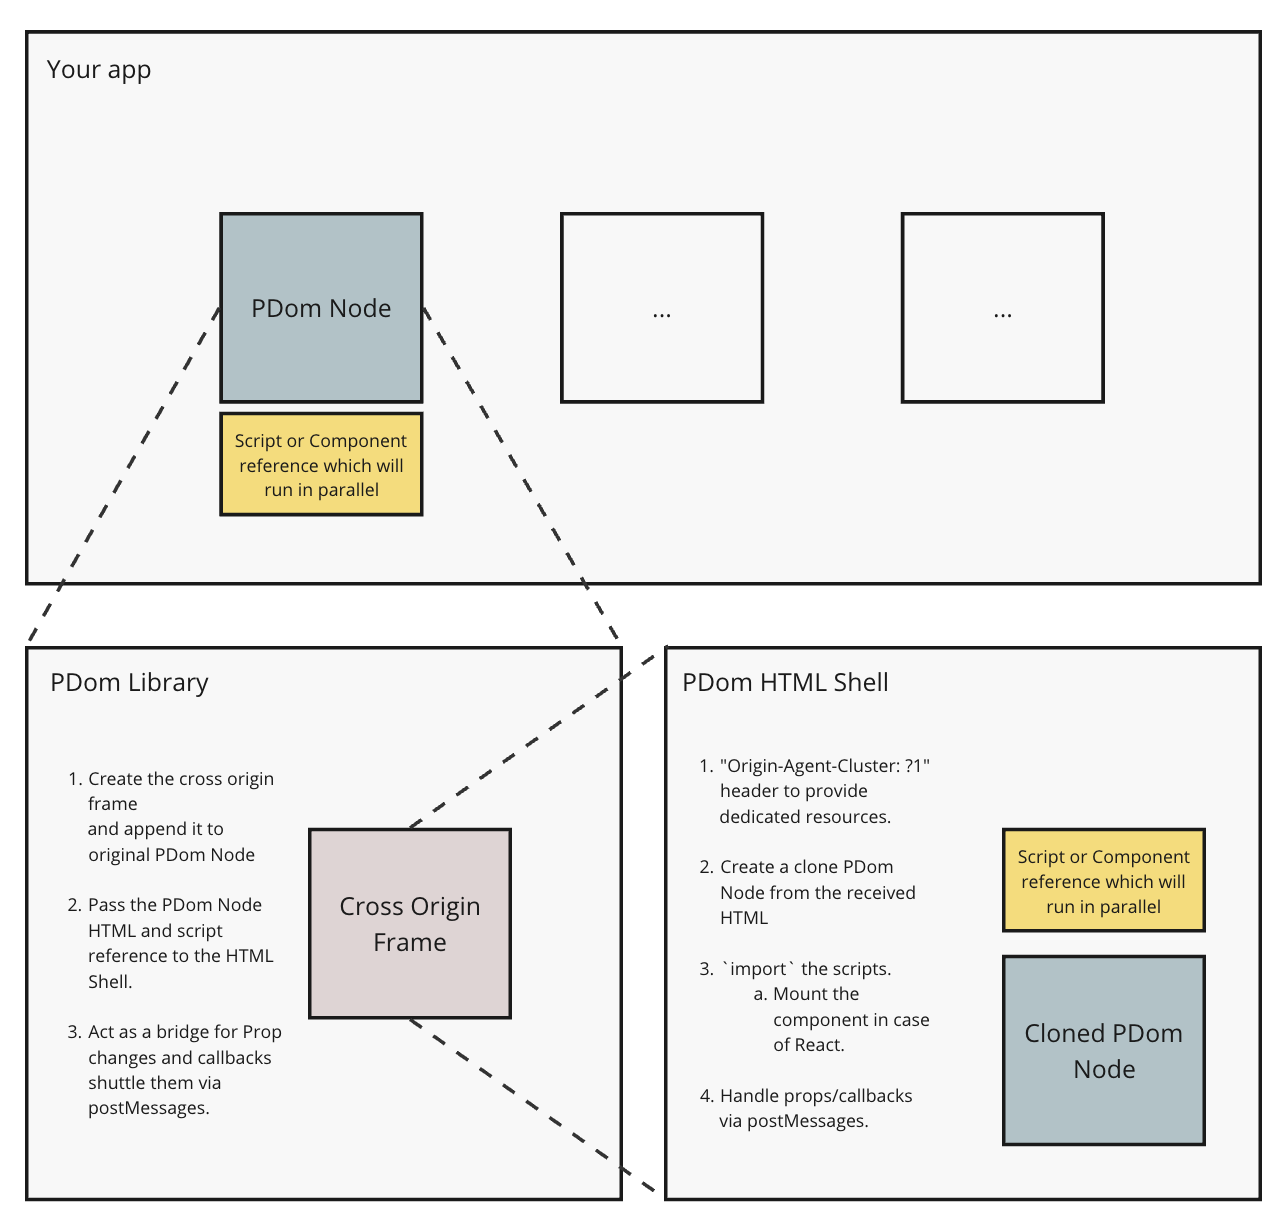
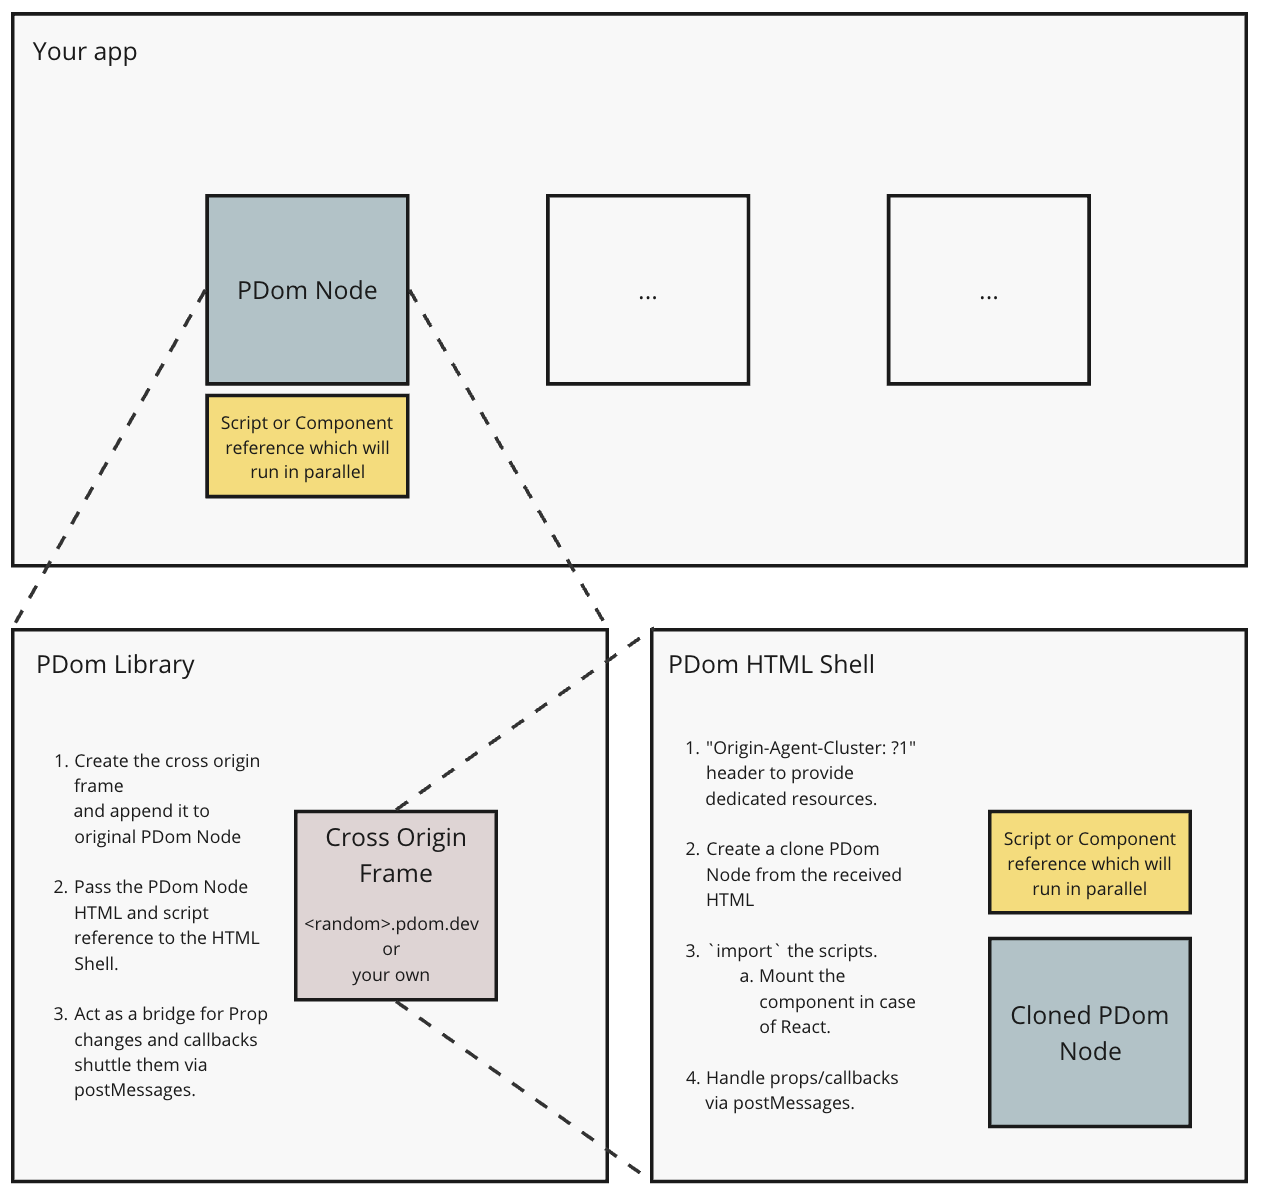
replace howitworks img

diff --git a/site/index.html b/site/index.html
@@ -239,9 +239,10 @@
       </div>
     </section>
 
-    <section class="bg-gray-100 border-b py-8">
-        <div class="container mx-auto flex flex-wrap pt-4 pb-12">
-
+    <section id="how-it-works" class="bg-gray-100 border-b py-6">
+        <div class="container mx-auto flex flex-col flex-wrap max-w-5xl">
+            <div class="pb-8 text-xl font-semibold">How it works</div>
+            <img class="max-w-2xl" src="/assets/how-it-works.png"/>
         </div>  
     </section>
 
